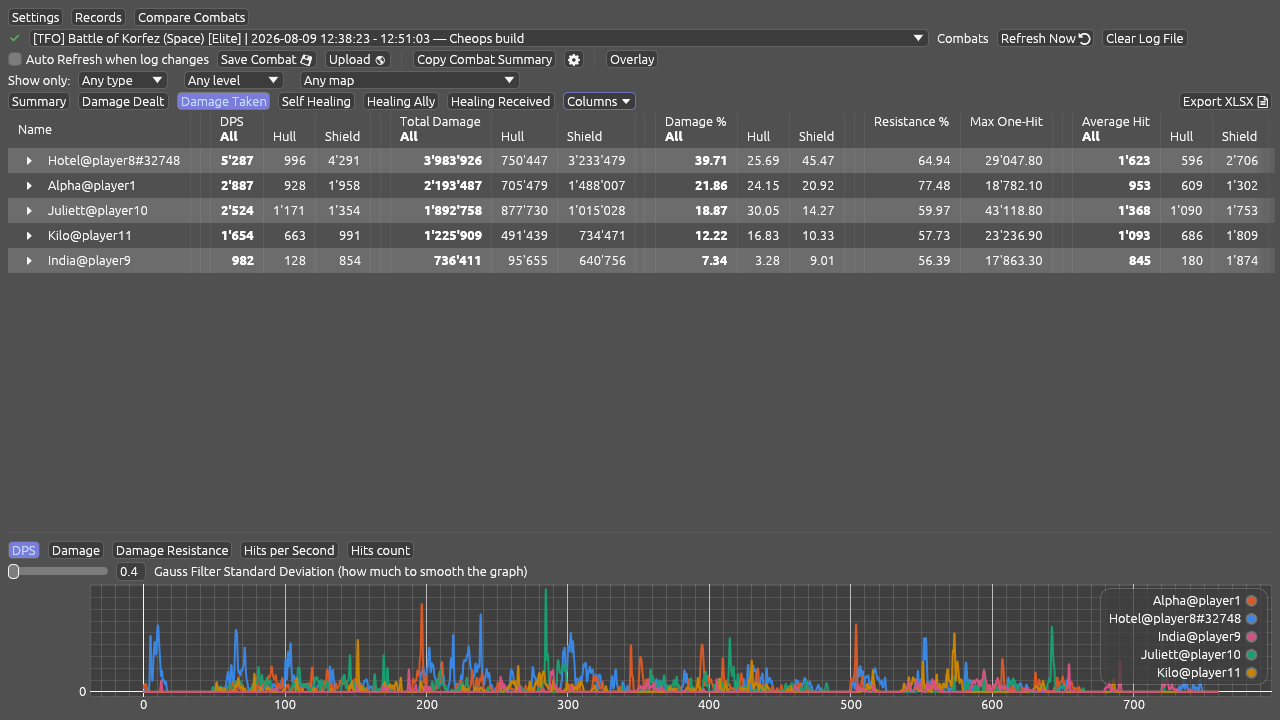
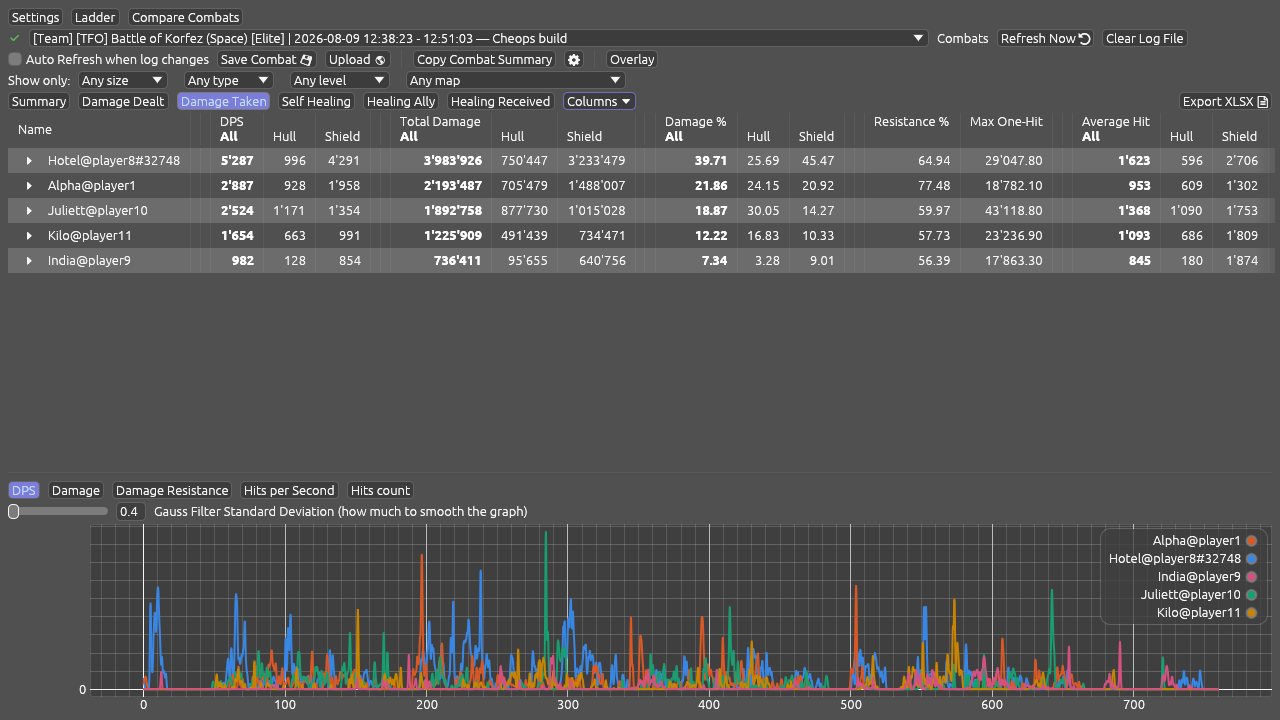
Catch the manual and the pictures up, and stop copying private settings
Three things the documentation had fallen behind on, all of them because the
features kept going after the chapter was written: that every fight now says
whether it was fought alone, that the ladder shows a run once rather than two to
four times, and that a rank there is a placing in its own table. The pictures
were from before all of it. Retaken, and the manual says what a folded row can
tell you that none of the originals could.

`demo/settings.py` now starts from the settings the program ships with and takes
from the live ones only the rules that name and group combats — without those,
pictures would show fights the program could not name. It used to copy
everything and patch out what must not be photographed, which leaked three
times: a note that had been written, the mode Compare happened to be left in,
and the path to a personal game folder printed in full on the settings screen.
Each was caught by looking at the picture, which is not a system. A list of
exceptions is only ever as good as the last thing somebody remembered to add.

diff --git a/demo/settings.py b/demo/settings.py
@@ -3,10 +3,15 @@
 
     ./demo/settings.py /tmp/clare-demo LightDark [/tmp/games/.../combatlog.log]
 
-Copies your live settings — so the naming and grouping rules come along and
-combats get their proper names — then overrides the log path, the theme and
-anything else that would put private data in a screenshot. Nothing is written
-to your real settings folder.
+Starts from the settings the program ships with and takes from yours only the
+rules that decide how combats are named and grouped — without those, pictures
+would show fights the program could not name. Nothing else of yours is copied.
+
+It used to work the other way round: copy everything, then patch out what must
+not be photographed. That leaked three times, each caught only by looking at the
+picture — a note you had written, the mode Compare happened to be left in, the
+path to your own game folder printed in full. A list of exceptions is only ever
+as good as the last thing somebody remembered to add to it.
 
 Run the program against it with:
 
@@ -20,6 +25,15 @@ import shutil
 import sys
 
 APP_DIR = "STO-CLARE"
+DEFAULTS = "src/app/settings/STO-CLARE_Settings.json"
+# What a picture needs from the live settings, and nothing besides: the rules
+# that name and group combats.
+CARRIED_OVER = (
+    "combat_name_rules",
+    "custom_group_rules",
+    "indirect_source_grouping_revers_rules",
+    "damage_out_exclusion_rules",
+)
 SETTINGS_FILE = "STO-CLARE_Settings.json"
 DEFAULT_LOG = "/tmp/games/Star Trek Online/Live/logs/GameClient/combatlog.log"
 
@@ -97,8 +111,18 @@ def main() -> int:
     root, theme = pathlib.Path(sys.argv[1]), sys.argv[2]
     log = sys.argv[3] if len(sys.argv) > 3 else DEFAULT_LOG
 
+    # The program's own defaults, as shipped.
+    defaults = pathlib.Path(__file__).resolve().parent.parent / DEFAULTS
+    settings = json.loads(defaults.read_text())
+
+    # The only thing worth having from the live settings: how combats get named
+    # and grouped. Everything else there is personal by default.
     source = live_settings()
-    settings = json.loads(source.read_text()) if source else {}
+    if source:
+        live = json.loads(source.read_text()).get("analysis", {})
+        for rules in CARRIED_OVER:
+            if rules in live:
+                settings.setdefault("analysis", {})[rules] = live[rules]
 
     settings.setdefault("analysis", {})["combatlog_file"] = log
     settings["analysis"]["consolidate_combatlog"] = True

diff --git a/MANUAL.md b/MANUAL.md
@@ -59,9 +59,13 @@ first. Pick one and every tab below fills in with it.
 
 ![The combats list](images/combats-list.png)
 
-Each entry reads: map name, whether it was space or ground, the difficulty, and
-the time it started and ended — for example
-`[TFO] Infected: The Conduit (Space) [Elite] | 11:56:10 - 12:02:27`. The map and
+Each entry reads: whether you fought it alone or with others, the map name,
+whether it was space or ground, the difficulty, and the time it started and
+ended — for example
+`[Solo] [TFO] Infected: The Conduit (Space) [Elite] | 11:56:10 - 12:02:27`.
+**Solo** means one player in the log and **Team** more than one, which is the
+same test the OSCR ladder uses, so a run of yours and one read from the ladder
+say the same thing. The map and
 difficulty are worked out from what happened in the fight, so you do not have to
 name anything yourself.
 
@@ -70,9 +74,10 @@ look far too low, check the neighbouring entry.
 
 ### Narrowing the list
 
-The three menus under the toolbar — type, level and map — cut the list down.
-Each menu only offers what the other two leave reachable, so you cannot pick a
-combination that shows nothing. A **Clear filter** button appears once any of
+The menus under the toolbar — solo or team, type, level and map — cut the list
+down. Each only offers what the others leave reachable, so you cannot pick a
+combination that shows nothing. The solo/team menu appears only when your list
+holds both kinds. A **Clear filter** button appears once any of
 them is set.
 
 ### Describing a combat so you can find it again
@@ -439,6 +444,30 @@ showing you nothing.
 Under the menus is what is left: the table's name when one table matches, or how
 many when several do. Several is normal when you are looking for a player rather
 than a table.
+
+### One run, one row
+
+The ladder keeps a map's runs in several tables at once — a catch-all for the
+map, one for each level, and separate ones for solo runs — and a single fight is
+entered into all of the ones it qualifies for. Ask across several tables and the
+same run therefore comes back two to four times, with the same figures each
+time. They are folded into one row.
+
+That row can say more than any of the originals could. A ladder entry carries no
+map and no level of its own; both live on the tables it is in. So the folded row
+is named from the set of them, in the same shape the program names your own
+fights: `[Solo] [TFO] Hive Onslaught (Space) [Elite]`.
+
+**Rank** is then the run's placing **in its own table**, not its position in the
+answer — which is why three rows in a row can all say 1. They are firsts in three
+different tables, and the name beside each says which.
+
+**Solo** and **Team** mean what they do everywhere else: one player in the log,
+or more. Solo is exact, because the ladder only admits a one-player run to a
+solo table. Team is worked out by a run *not* being in any solo table — which
+leaves one gap: twenty of the ladder's map-and-level combinations have no solo
+table at all, and a run fought alone on one of those reads as Team, because
+nothing in the ladder's data says otherwise.
 
 **Search** finds a player by any part of their handle, and it stays put while you
 narrow everything else — so you can follow one person from season to season, or

diff --git a/CHANGELOG.md b/CHANGELOG.md
@@ -5,6 +5,8 @@
 ### Major Changes
 - the ladder browser is now a window of its own, called **Ladder**, so you can read a run in the main window while the standings are up. Instead of scrolling one long list of tables, five menus narrow it down — season, map, space or ground, solo or team, and level — and each menu only offers what the others leave reachable, so no choice you can make empties the list. Picking a map settles space or ground with it. **All seasons** searches the whole ladder at once, and a player search stays put while you narrow everything else
 - any run on the ladder can be opened in the main window with everything the program shows — all the tabs, the charts, the ability breakdown — from the 🔍 beside it. Your own log is not touched: a mark at the top says whose fight you are looking at, and one button puts yours back
+- every fight now says whether you fought it alone: names read `[Solo] [TFO] Infected: The Conduit (Space) [Elite]` or `[Team] …`, and a menu beside the type, level and map filters keeps one kind or the other. The test is the ladder's own — one player in the log — so a run of yours and one read from the ladder say the same thing. It follows the name everywhere: the combats list, a comparison, a summary pasted into chat, a spreadsheet, the name of a saved log
+- searching the ladder across maps or seasons shows each run once instead of two to four times. A fight is entered into several tables at once — the catch-all for its map, the one for its level, the solo one — and those rows are identical, so they are folded into one. The folded row can say more than any of them could: it names the map, the level and whether it was solo, none of which a single ladder row carries. Its rank is the placing in its own table, so three rows saying 1 are three firsts in three tables, and the name beside each says which
 - a run from the ladder can be compared with your own fights. Press Compare Combats with one open and it is already in the comparison, with your own list narrowed to the same map and level, since that is nearly always what you want to compare against
 - Compare Combats is no longer limited to three runs. Any number can be ticked, and **Select all** ticks everything the filters have left in the list, so a whole evening of Infected Space goes into one comparison. Past eight runs the chart's line colours start over, and a very wide comparison takes a moment to build — the picker says so before it is built
 - a comparison can be read as one averaged column per metric instead of one column per run, which is what makes a pile of runs readable at all. Every run counts once, and a run that never used an ability is left out of that ability's average rather than counted as a zero; hovering an average says how many runs went into it, and the best and worst of them. The chart follows: one line for what the runs average out to, over the length of the longest of them — an average and not a total, so two runs of 90k DPS come out at 90k
